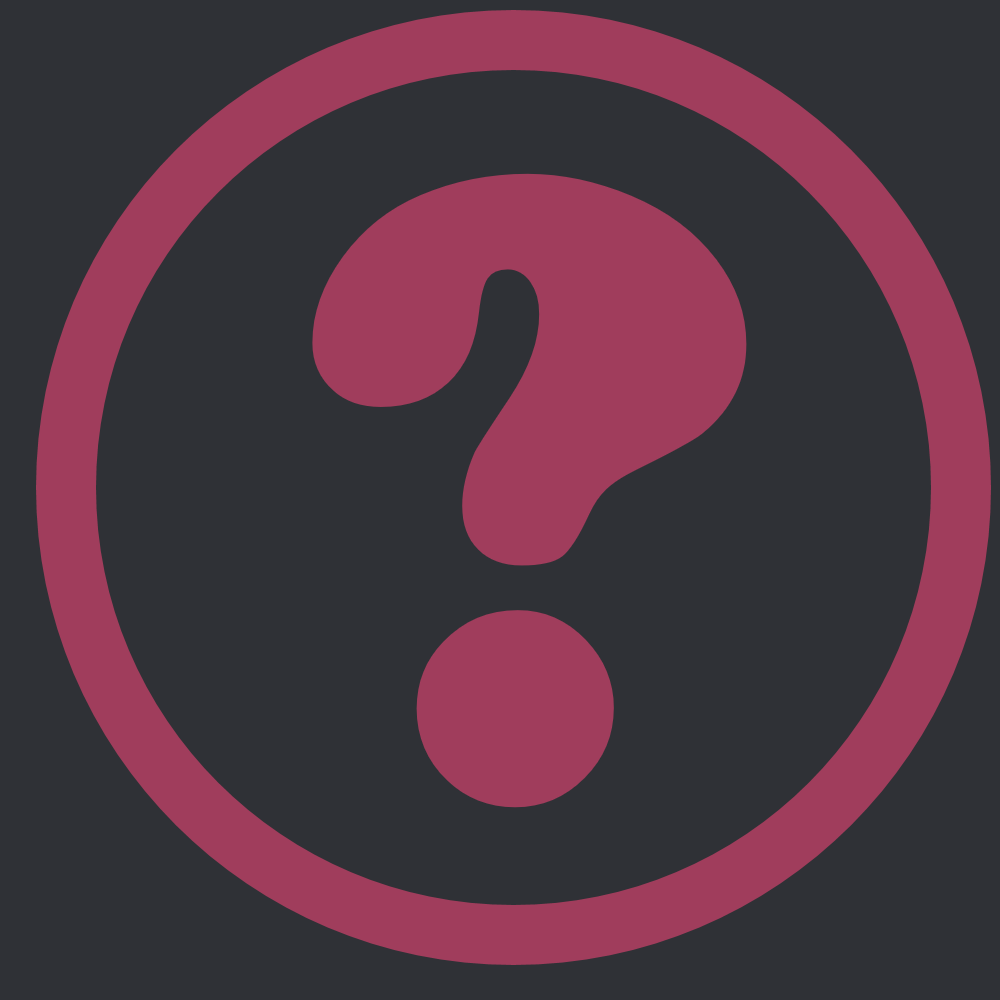
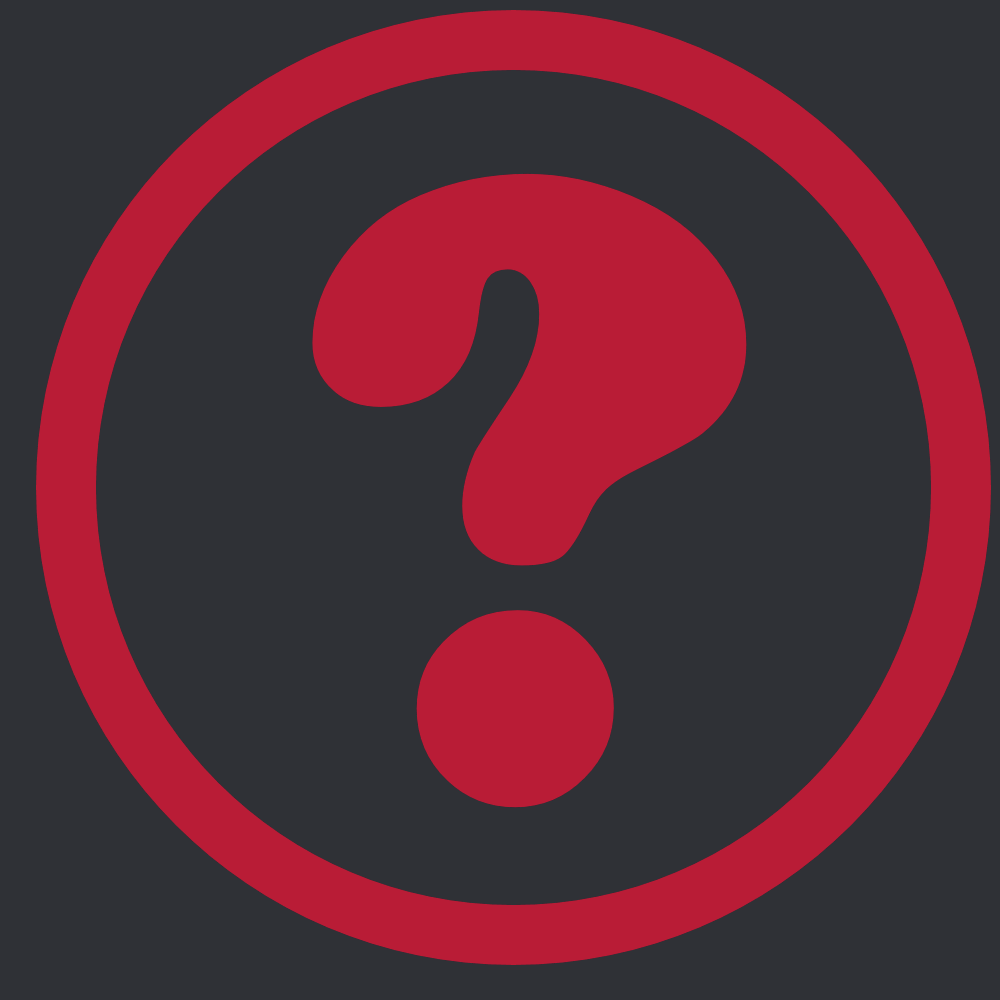
Added admin commands

Changed region(s): [[0.031, 0.0, 0.992, 0.992], [0.31, 0.155, 0.744, 0.806]]

diff --git a/cogs/commands.py b/cogs/commands.py
@@ -97,11 +97,13 @@ class Commands(commands.Cog):
             help_data = json.loads(encoded_data)
 
         title = help_data["default"]["title"]
+        colour = 0xB91C36
+        thumbnail = discord.File("data/HelpThumbnail.png", filename="thumbnail.png")
 
         # Retrieves command - useful if user wants to use a commands alias
         command = self.bot.get_command(str(command))
 
-        if command is not None: # Command exists
+        if command is not None and command.name in help_data.keys():  # Command exists
             # Grabbing title, footer, description and notes (if that exists)
             title += help_data[command.name]["title"]
             footer = "Aliases: {}".format(", ".join(command.aliases))
@@ -110,14 +112,18 @@ class Commands(commands.Cog):
             if "formatted" in help_data[command.name].keys():  # Basically just a special formatted description addition
                 description += "{}\n\u200b".format("\n> ".join(help_data[command.name]["formatted"]))
 
+            # Different colour for owner commands to help distinguish easier
+            if command.cog.qualified_name == "Owner":
+                colour = 0xB32DBF
+                thumbnail = discord.File("data/AdminHelpThumbnail.png", filename="thumbnail.png")
+
         else:  # If no command exists it uses the default description
             description = "\n".join(help_data["default"]["description"])
             footer = ""
 
-        embed = discord.Embed(title="{}**".format(title), description=description, colour=0xA03D5C)
+        embed = discord.Embed(title="{}**".format(title), description=description, colour=colour)
         embed.set_footer(text=footer)
 
-        thumbnail = discord.File("data/HelpThumbnail.png", filename="thumbnail.png")
         embed.set_thumbnail(url="attachment://thumbnail.png")
         await ctx.send(embed=embed, file=thumbnail)
 
